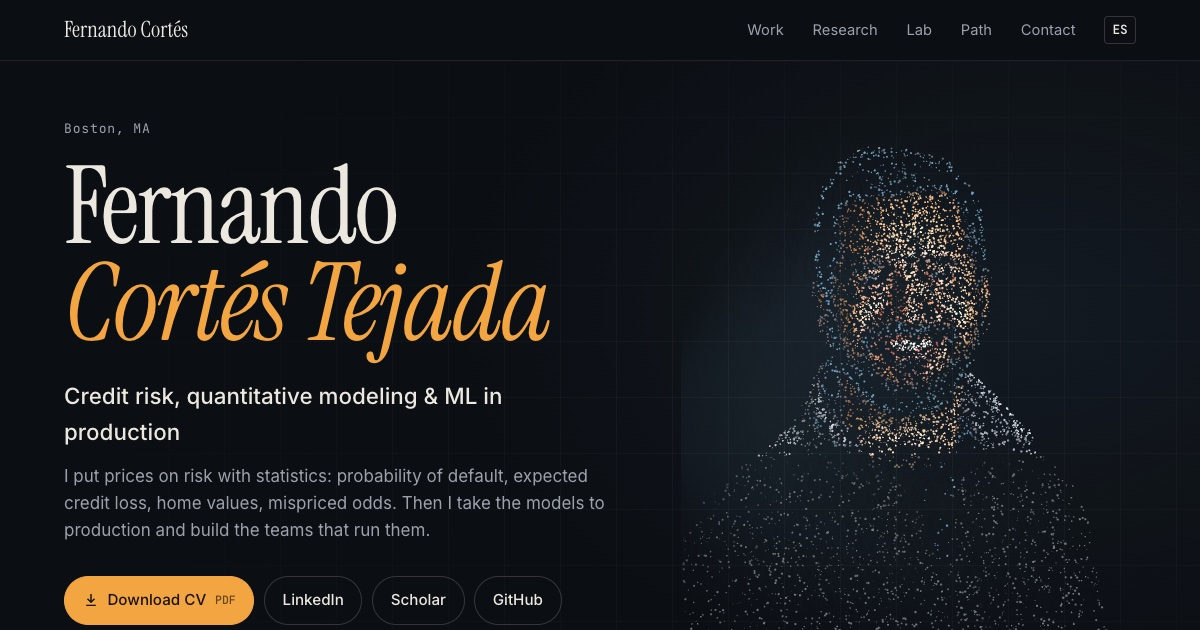
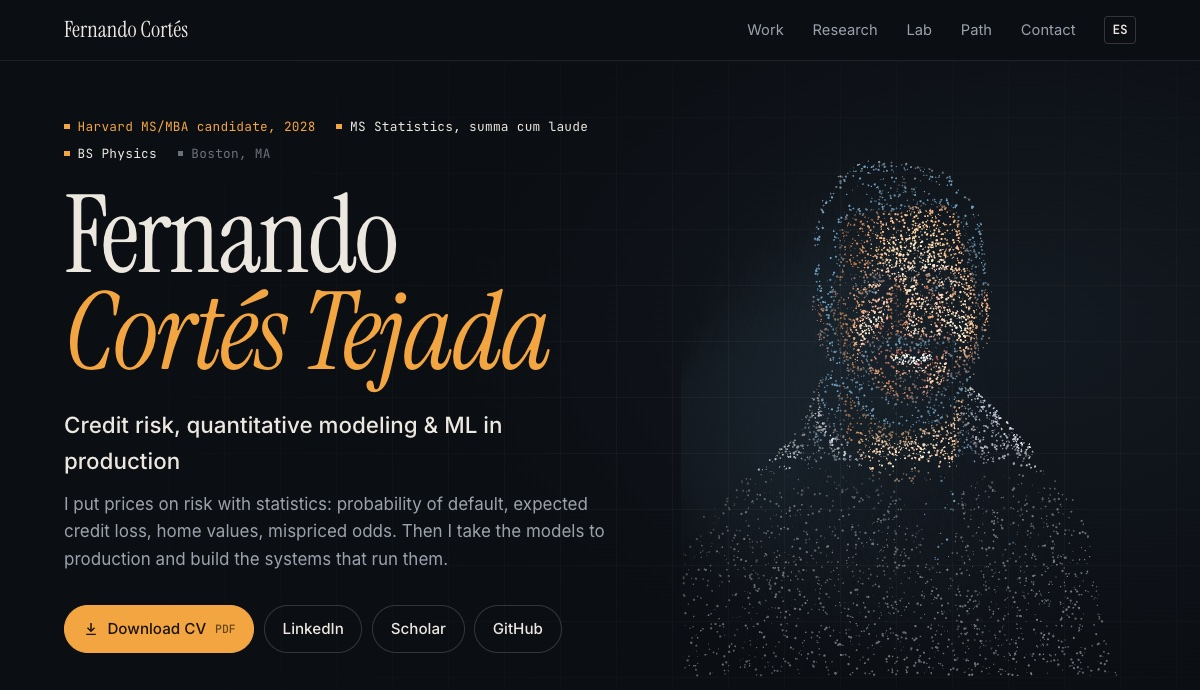
Match site to current CV: roles, metrics, tools; new CV PDF and OG image

diff --git a/src/i18n/content.ts b/src/i18n/content.ts
@@ -79,7 +79,7 @@ export const content = {
     meta: {
       title: 'Fernando Cortés Tejada | Credit Risk, Quant & ML',
       description:
-        'Harvard MS/MBA candidate with an MS in Statistics (summa cum laude) and a BS in Physics. Credit risk, quantitative modeling and machine learning in production; former fintech CTO.',
+        'Harvard MS/MBA candidate with an MS in Statistics (summa cum laude) and a BS in Physics. Credit risk, quantitative modeling and machine learning in production; founding engineer at a Series A fintech.',
     },
     nav: { work: 'Work', research: 'Research', lab: 'Lab', path: 'Path', contact: 'Contact', switchLabel: 'ES', switchAria: 'Leer en español' },
     hero: {
@@ -87,13 +87,13 @@ export const content = {
       credentials: ['Harvard MS/MBA candidate, 2028', 'MS Statistics, summa cum laude', 'BS Physics'],
       role: 'Credit risk, quantitative modeling & ML in production',
       pitch:
-        'I put prices on risk with statistics: probability of default, expected credit loss, home values, mispriced odds. Then I take the models to production and build the teams that run them.',
+        'I put prices on risk with statistics: probability of default, expected credit loss, home values, mispriced odds. Then I take the models to production and build the systems that run them.',
       cv: 'Download CV',
       stats: [
         { value: '100+', label: 'citations, Expert Systems with Applications' },
         { value: '3M', label: 'credit cards under IFRS 9 models' },
         { value: '1M', label: 'Bogotá homes priced' },
-        { value: '$14.5M', label: 'raised (seed + Series A)' },
+        { value: '40h → 3h', label: 'legal review per deal, AI engine' },
       ],
       viz: {
         paths: 'Paths',
@@ -119,7 +119,7 @@ export const content = {
           years: '2017–2020',
           title: 'IFRS 9 credit loss under stress',
           headline: '3M cards',
-          summary: 'Expected credit loss for cards, mortgages and loans: Markov migration between delinquency buckets, stressed under macro scenarios, with a Monte Carlo loss distribution.',
+          summary: 'Expected credit loss for ~3M credit cards and a S/ 60B loan book: Markov migration between delinquency buckets, stressed under macro scenarios, with a Monte Carlo loss distribution.',
           methods: ['Markov chains', 'Monte Carlo', 'IFRS 9'],
           metrics: [
             { value: '~3M', label: 'credit cards' },
@@ -153,7 +153,7 @@ export const content = {
           metrics: [
             { value: '100ms', label: 'latency (halved)' },
             { value: '−8%', label: 'fraud losses' },
-            { value: '−25%', label: 'false positives' },
+            { value: '−25%+', label: 'false positives' },
           ],
           viz: { title: 'Fraud score distributions', threshold: 'Block above score', legit: 'Legitimate', fraud: 'Fraud', lowRisk: '← low risk', highRisk: 'high risk →', caught: 'Fraud caught', fpr: 'Legit blocked', alerts: 'Alerts / 10k txns' },
         },
@@ -163,7 +163,7 @@ export const content = {
           years: '2022–2026',
           title: 'Home valuation for a rent-to-own lender',
           headline: '~1M homes',
-          summary: 'An XGBoost + LightGBM ensemble predicts price per m² from location, size, comparables and rooms, then scales it to a sale price. It backed real-time asset pricing as the portfolio passed $25M.',
+          summary: 'An XGBoost + LightGBM ensemble predicts price per m² from location, size, comparables and rooms, then scales it to a sale price. It moved asset pricing and investor reporting from a 3-day manual process to real time.',
           methods: ['XGBoost', 'LightGBM', 'Ensembles'],
           metrics: [
             { value: '~1M', label: 'homes in Bogotá' },
@@ -178,11 +178,11 @@ export const content = {
           years: '2023–2026',
           title: 'AI document validation for underwriting',
           headline: '40h → 3h',
-          summary: 'Built with the legal team: an AI engine that checks property and borrower documents, the bottleneck of every deal. As CTO I also led diligence for both rounds and grew engineering from 1 to 7.',
-          methods: ['LLMs', 'Document AI', 'Automation'],
+          summary: 'Built with the legal team: an AI engine that checks property and borrower documents, the bottleneck of every deal. I also wrote the core platform in Python (FastAPI, PostgreSQL) and split it into microservices on GCP and AWS.',
+          methods: ['LLMs', 'Document AI', 'FastAPI', 'Microservices'],
           metrics: [
-            { value: '10×', label: 'deal throughput' },
-            { value: '$14.5M', label: 'raised (seed + Series A)' },
+            { value: '5 → 20', label: 'homes financed a month' },
+            { value: '$70K', label: 'cloud costs saved a year' },
           ],
           viz: { title: 'Before and after the engine', before: 'Before', after: 'With AI', review: 'Review time per deal', homes: 'Homes financed per month' },
         },
@@ -322,19 +322,19 @@ export const content = {
       inProgress: 'in progress',
       seeModel: 'See the model',
       items: [
-        { lane: 'edu', from: 2012, to: 2016.99, label: 'BS Physics', org: 'PUCP', place: 'Lima', role: 'BS in Physics, magna cum laude', note: 'Founder and first president of the Physics Student Association; PAIN-PUCP research grant.' },
+        { lane: 'edu', from: 2012, to: 2016.99, label: 'BS Physics', org: 'PUCP', place: 'Lima', role: 'BS in Physics, magna cum laude', note: 'Quantum Optics Research Group; Jorge André Swieca School on Nonlinear and Quantum Optics (Brazil, 2016); PAIN-PUCP research grant. Founder and first president of the Physics Student Association.' },
         { lane: 'work', from: 2017, to: 2020, label: 'Interbank', org: 'Interbank', place: 'Lima', role: 'Data Scientist, credit risk', note: 'IFRS 9 expected credit loss for ~3M cards and a S/ 60B loan book; Monte Carlo loss simulation; origination models.', goto: 'ifrs9' },
         { lane: 'edu', from: 2018, to: 2019.99, label: 'MS Stats', org: 'PUCP', place: 'Lima', role: 'MS in Statistics, summa cum laude', note: 'Full-tuition scholarship. Bayesian thesis on credit-card utilization, presented at LACSC 2021.' },
-        { lane: 'work', from: 2020, to: 2022, label: 'RappiBank', org: 'RappiBank', place: 'Lima', role: 'Lead Data Engineer, founding team', note: 'Digital bank of Rappi and Interbank. First origination model (published) and real-time fraud detection.', goto: 'origination' },
-        { lane: 'work', from: 2022, to: 2026.4, label: 'Duppla', org: 'Duppla', place: 'Bogotá', role: 'First employee (Lead Data Engineer), then CTO from 2023', note: 'Built the home valuation ensemble over ~1M Bogotá homes. As CTO, led diligence for the $2.5M seed and $12M Series A, grew engineering from 1 to 7, and built the AI document engine. Subject of an HBS case study.', goto: 'docAi' },
-        { lane: 'teach', from: 2022, to: 2024, label: 'Professor', org: 'PUCP', place: 'Lima', role: 'Adjunct Professor, Computational Statistics', note: 'Designed the course in R and Python for 200+ students; sections averaged 15.45/20 vs a 13.41 course average, and a student Net Promoter Score of 98, highest in the faculty.' },
+        { lane: 'work', from: 2020, to: 2022, label: 'RappiBank', org: 'RappiBank', place: 'Lima', role: 'Machine Learning Engineer, founding team', note: 'Digital bank of Rappi and Interbank. The bank’s first origination model (published) and real-time fraud detection.', goto: 'origination' },
+        { lane: 'work', from: 2022, to: 2026.4, label: 'Duppla', org: 'Duppla', place: 'Bogotá', role: 'Founding Engineer, first employee', note: 'LatAm Series A fintech. Built the home valuation ensemble over ~1M Bogotá homes, the core Python platform on GCP and AWS, and an AI document engine that cut legal review from 40 to 3 hours per deal. Subject of an HBS case study.', goto: 'docAi' },
+        { lane: 'teach', from: 2022, to: 2024, label: 'Professor', org: 'PUCP', place: 'Lima', role: 'Adjunct Professor (part-time), Computational Statistics', note: 'Designed the course in R and Python for 200+ students; sections averaged 15.45/20 vs a 13.41 course average, and a student Net Promoter Score of 98, highest in the faculty.' },
         { lane: 'side', from: 2023, to: 2024.5, label: 'Surebets', org: 'Side project', place: 'Lima', role: 'Real-time sports-betting arbitrage', note: 'Scraped NBA odds across sportsbooks and executed arbitrages automatically in under 30 seconds; run with real money.', goto: 'surebets' },
         { lane: 'edu', from: 2026.6, to: 2028.4, label: 'Harvard', org: 'Harvard Business School & SEAS', place: 'Boston', role: 'MS/MBA candidate, Engineering Sciences', note: 'Dupré and Nunnelly Fellowship. Graduating May 2028.', current: true },
       ] satisfies PathItem[],
       certs: 'Certifications',
       certList: ['Anthropic: Claude Certified Architect', 'Snowflake: SnowPro Core'],
       stack: 'Tools',
-      stackList: ['Python', 'R', 'SQL', 'PyTorch', 'XGBoost', 'JAGS / MCMC', 'Snowflake', 'Databricks', 'Airflow', 'dbt', 'GCP', 'AWS', 'TypeScript'],
+      stackList: ['Python', 'NumPy / Pandas', 'SciPy', 'statsmodels', 'scikit-learn', 'PyTorch', 'XGBoost', 'R', 'JAGS / MCMC', 'SQL', 'PostgreSQL', 'FastAPI', 'GCP', 'AWS'],
     },
     beyond: {
       kicker: 'Beyond work',
@@ -362,7 +362,7 @@ export const content = {
     meta: {
       title: 'Fernando Cortés Tejada | Riesgo de crédito, quant y ML',
       description:
-        'Candidato MS/MBA en Harvard, con maestría en Estadística (summa cum laude) y bachiller en Física. Riesgo de crédito, modelación cuantitativa y machine learning en producción; ex-CTO de una fintech.',
+        'Candidato MS/MBA en Harvard, con maestría en Estadística (summa cum laude) y bachiller en Física. Riesgo de crédito, modelación cuantitativa y machine learning en producción; ingeniero fundador de una fintech Serie A.',
     },
     nav: { work: 'Trabajo', research: 'Investigación', lab: 'Lab', path: 'Trayectoria', contact: 'Contacto', switchLabel: 'EN', switchAria: 'Read in English' },
     hero: {
@@ -370,13 +370,13 @@ export const content = {
       credentials: ['Candidato MS/MBA en Harvard, 2028', 'Maestría en Estadística, summa cum laude', 'Bachiller en Física'],
       role: 'Riesgo de crédito, modelación cuantitativa y ML en producción',
       pitch:
-        'Le pongo precio al riesgo con estadística: probabilidad de default, pérdida crediticia esperada, valor de viviendas, cuotas mal valoradas. Luego llevo los modelos a producción y armo los equipos que los operan.',
+        'Le pongo precio al riesgo con estadística: probabilidad de default, pérdida crediticia esperada, valor de viviendas, cuotas mal valoradas. Luego llevo los modelos a producción y construyo los sistemas que los operan.',
       cv: 'Descargar CV',
       stats: [
         { value: '100+', label: 'citas, Expert Systems with Applications' },
         { value: '3M', label: 'tarjetas de crédito bajo modelos IFRS 9' },
         { value: '1M', label: 'viviendas valoradas en Bogotá' },
-        { value: 'US$14.5M', label: 'levantados (semilla + Serie A)' },
+        { value: '40h → 3h', label: 'revisión legal por operación, motor de IA' },
       ],
       viz: {
         paths: 'Trayectorias',
@@ -402,7 +402,7 @@ export const content = {
           years: '2017–2020',
           title: 'Pérdida crediticia IFRS 9 bajo estrés',
           headline: '3M tarjetas',
-          summary: 'Pérdida crediticia esperada para tarjetas, hipotecas y créditos: migración de Markov entre buckets de morosidad, estresada con escenarios macro, y una distribución de pérdidas por Monte Carlo.',
+          summary: 'Pérdida crediticia esperada para ~3M tarjetas y una cartera de S/ 60 mil M: migración de Markov entre buckets de morosidad, estresada con escenarios macro, y una distribución de pérdidas por Monte Carlo.',
           methods: ['Cadenas de Markov', 'Monte Carlo', 'IFRS 9'],
           metrics: [
             { value: '~3M', label: 'tarjetas de crédito' },
@@ -436,7 +436,7 @@ export const content = {
           metrics: [
             { value: '100ms', label: 'latencia (a la mitad)' },
             { value: '−8%', label: 'pérdidas por fraude' },
-            { value: '−25%', label: 'falsos positivos' },
+            { value: '−25%+', label: 'falsos positivos' },
           ],
           viz: { title: 'Distribuciones del score de fraude', threshold: 'Bloquear sobre el score', legit: 'Legítimas', fraud: 'Fraude', lowRisk: '← bajo riesgo', highRisk: 'alto riesgo →', caught: 'Fraude detectado', fpr: 'Legítimas bloqueadas', alerts: 'Alertas / 10 mil txns' },
         },
@@ -446,7 +446,7 @@ export const content = {
           years: '2022–2026',
           title: 'Valoración de viviendas para un financiador rent-to-own',
           headline: '~1M viviendas',
-          summary: 'Un ensamble de XGBoost y LightGBM predice el precio por m² a partir de ubicación, área, comparables y habitaciones, y lo escala al precio de venta. Sostuvo la valoración en tiempo real cuando el portafolio superó US$25M.',
+          summary: 'Un ensamble de XGBoost y LightGBM predice el precio por m² a partir de ubicación, área, comparables y habitaciones, y lo escala al precio de venta. Llevó la valoración de activos y los reportes a inversionistas de un proceso manual de 3 días a tiempo real.',
           methods: ['XGBoost', 'LightGBM', 'Ensambles'],
           metrics: [
             { value: '~1M', label: 'viviendas en Bogotá' },
@@ -461,11 +461,11 @@ export const content = {
           years: '2023–2026',
           title: 'Validación de documentos con IA',
           headline: '40h → 3h',
-          summary: 'Construido con el equipo legal: un motor de IA que revisa los documentos del inmueble y del cliente, el cuello de botella de cada operación. Como CTO también lideré la due diligence de ambas rondas y crecí ingeniería de 1 a 7.',
-          methods: ['LLMs', 'IA documental', 'Automatización'],
+          summary: 'Construido con el equipo legal: un motor de IA que revisa los documentos del inmueble y del cliente, el cuello de botella de cada operación. También escribí la plataforma central en Python (FastAPI, PostgreSQL) y la separé en microservicios sobre GCP y AWS.',
+          methods: ['LLMs', 'IA documental', 'FastAPI', 'Microservicios'],
           metrics: [
-            { value: '10×', label: 'operaciones procesadas' },
-            { value: 'US$14.5M', label: 'levantados (semilla + Serie A)' },
+            { value: '5 → 20', label: 'viviendas financiadas al mes' },
+            { value: 'US$70K', label: 'ahorro anual en nube' },
           ],
           viz: { title: 'Antes y después del motor', before: 'Antes', after: 'Con IA', review: 'Horas de revisión por operación', homes: 'Viviendas financiadas al mes' },
         },
@@ -605,19 +605,19 @@ export const content = {
       inProgress: 'en curso',
       seeModel: 'Ver el modelo',
       items: [
-        { lane: 'edu', from: 2012, to: 2016.99, label: 'Física', org: 'PUCP', place: 'Lima', role: 'Bachiller en Física, magna cum laude', note: 'Fundador y primer presidente de la Asociación de Estudiantes de Física; beca de investigación PAIN-PUCP.' },
+        { lane: 'edu', from: 2012, to: 2016.99, label: 'Física', org: 'PUCP', place: 'Lima', role: 'Bachiller en Física, magna cum laude', note: 'Grupo de Investigación en Óptica Cuántica; Escuela Jorge André Swieca de Óptica No Lineal y Cuántica (Brasil, 2016); beca de investigación PAIN-PUCP. Fundador y primer presidente de la Asociación de Estudiantes de Física.' },
         { lane: 'work', from: 2017, to: 2020, label: 'Interbank', org: 'Interbank', place: 'Lima', role: 'Data Scientist, riesgo de crédito', note: 'Pérdida crediticia esperada IFRS 9 para ~3M tarjetas y una cartera de S/ 60 mil M; simulación Monte Carlo de pérdidas; modelos de originación.', goto: 'ifrs9' },
         { lane: 'edu', from: 2018, to: 2019.99, label: 'Maestría', org: 'PUCP', place: 'Lima', role: 'Maestría en Estadística, summa cum laude', note: 'Beca completa. Tesis bayesiana sobre uso de tarjetas de crédito, presentada en LACSC 2021.' },
-        { lane: 'work', from: 2020, to: 2022, label: 'RappiBank', org: 'RappiBank', place: 'Lima', role: 'Lead Data Engineer, equipo fundador', note: 'Banco digital de Rappi e Interbank. Primer modelo de originación (publicado) y detección de fraude en tiempo real.', goto: 'origination' },
-        { lane: 'work', from: 2022, to: 2026.4, label: 'Duppla', org: 'Duppla', place: 'Bogotá', role: 'Primer empleado (Lead Data Engineer), luego CTO desde 2023', note: 'Construí el ensamble de valoración sobre ~1M viviendas en Bogotá. Como CTO, lideré la due diligence de la ronda semilla de US$2.5M y la Serie A de US$12M, crecí ingeniería de 1 a 7 y construí el motor de documentos con IA. Caso de estudio de HBS.', goto: 'docAi' },
-        { lane: 'teach', from: 2022, to: 2024, label: 'Profesor', org: 'PUCP', place: 'Lima', role: 'Profesor, Estadística Computacional', note: 'Diseñé el curso en R y Python para más de 200 estudiantes; mis horarios promediaron 15.45/20 frente a un promedio del curso de 13.41, y un Net Promoter Score estudiantil de 98, el más alto de la facultad.' },
+        { lane: 'work', from: 2020, to: 2022, label: 'RappiBank', org: 'RappiBank', place: 'Lima', role: 'Machine Learning Engineer, equipo fundador', note: 'Banco digital de Rappi e Interbank. Primer modelo de originación del banco (publicado) y detección de fraude en tiempo real.', goto: 'origination' },
+        { lane: 'work', from: 2022, to: 2026.4, label: 'Duppla', org: 'Duppla', place: 'Bogotá', role: 'Founding Engineer, primer empleado', note: 'Fintech latinoamericana en Serie A. Construí el ensamble de valoración sobre ~1M viviendas en Bogotá, la plataforma central en Python sobre GCP y AWS, y un motor de documentos con IA que redujo la revisión legal de 40 a 3 horas por operación. Caso de estudio de HBS.', goto: 'docAi' },
+        { lane: 'teach', from: 2022, to: 2024, label: 'Profesor', org: 'PUCP', place: 'Lima', role: 'Profesor adjunto (tiempo parcial), Estadística Computacional', note: 'Diseñé el curso en R y Python para más de 200 estudiantes; mis horarios promediaron 15.45/20 frente a un promedio del curso de 13.41, y un Net Promoter Score estudiantil de 98, el más alto de la facultad.' },
         { lane: 'side', from: 2023, to: 2024.5, label: 'Surebets', org: 'Proyecto personal', place: 'Lima', role: 'Arbitraje de apuestas deportivas en tiempo real', note: 'Extraía cuotas de la NBA de varias casas y ejecutaba los arbitrajes automáticamente en menos de 30 segundos; operado con dinero real.', goto: 'surebets' },
         { lane: 'edu', from: 2026.6, to: 2028.4, label: 'Harvard', org: 'Harvard Business School & SEAS', place: 'Boston', role: 'Candidato MS/MBA, Engineering Sciences', note: 'Beca Dupré and Nunnelly. Egreso en mayo de 2028.', current: true },
       ] satisfies PathItem[],
       certs: 'Certificaciones',
       certList: ['Anthropic: Claude Certified Architect', 'Snowflake: SnowPro Core'],
       stack: 'Herramientas',
-      stackList: ['Python', 'R', 'SQL', 'PyTorch', 'XGBoost', 'JAGS / MCMC', 'Snowflake', 'Databricks', 'Airflow', 'dbt', 'GCP', 'AWS', 'TypeScript'],
+      stackList: ['Python', 'NumPy / Pandas', 'SciPy', 'statsmodels', 'scikit-learn', 'PyTorch', 'XGBoost', 'R', 'JAGS / MCMC', 'SQL', 'PostgreSQL', 'FastAPI', 'GCP', 'AWS'],
     },
     beyond: {
       kicker: 'Fuera del trabajo',
